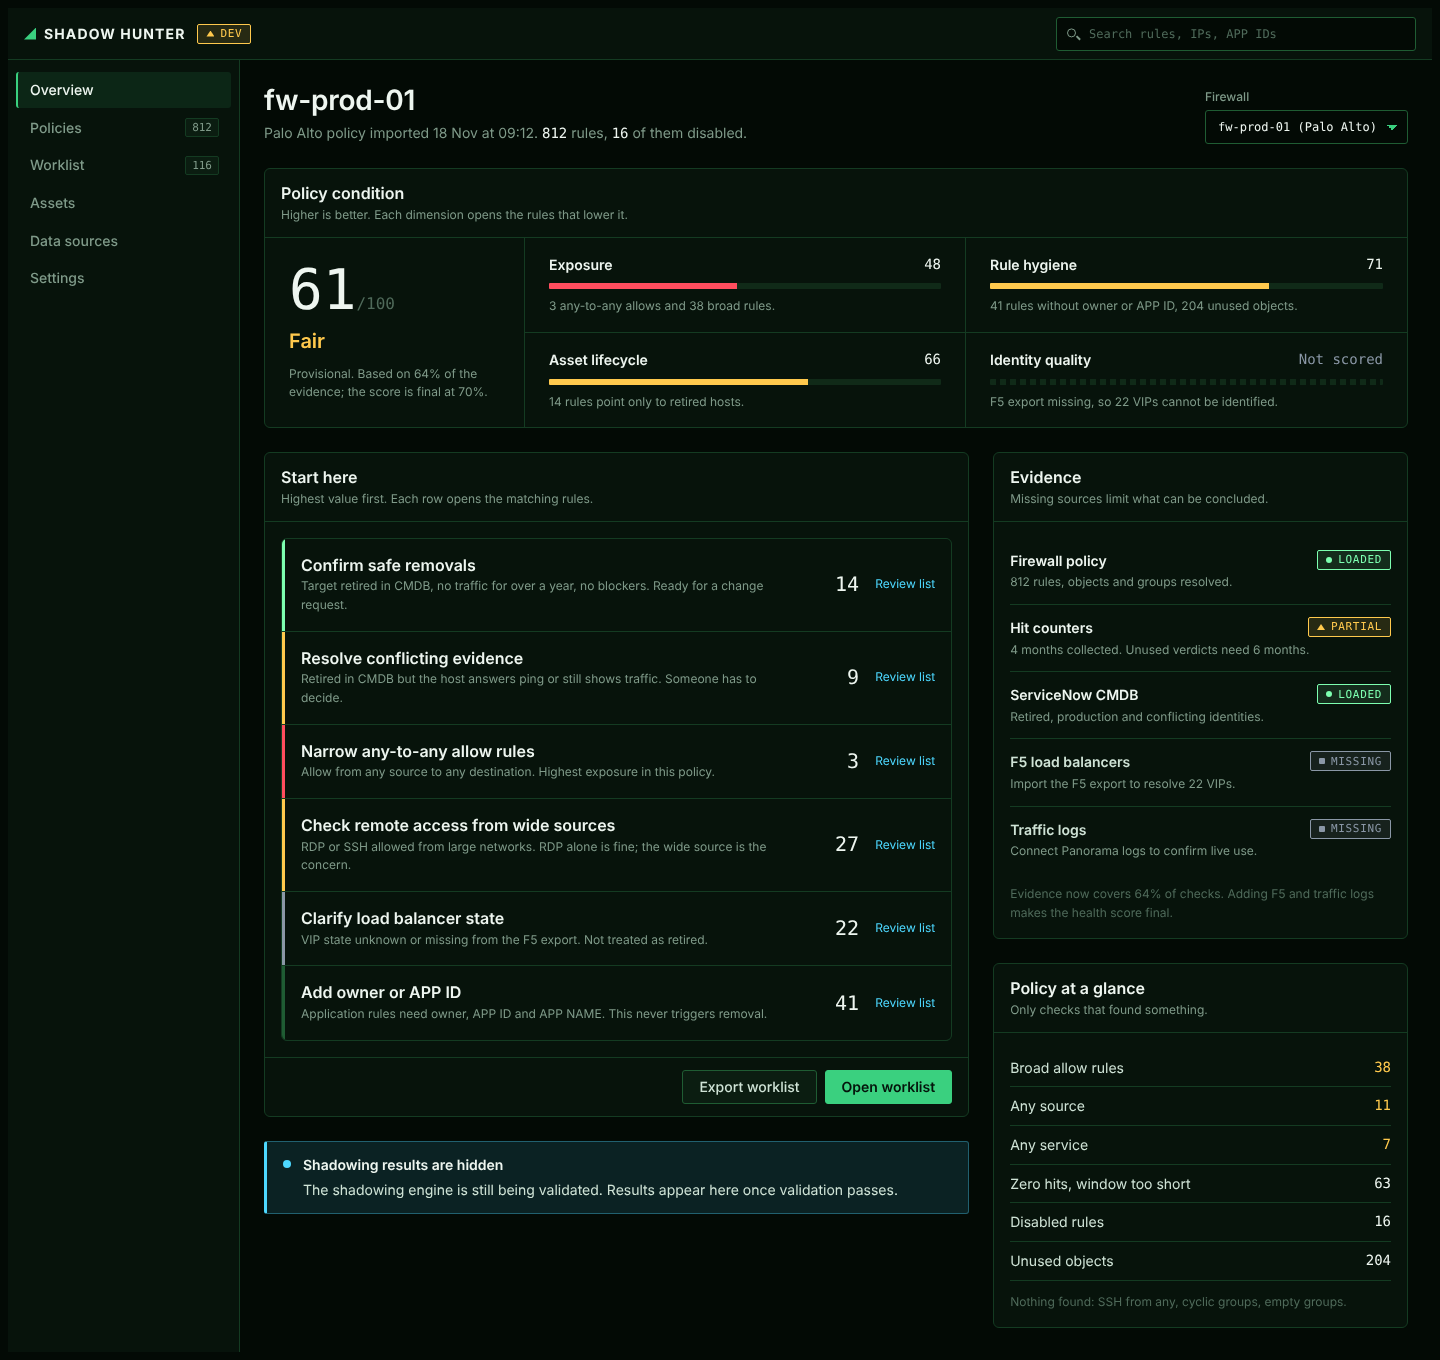
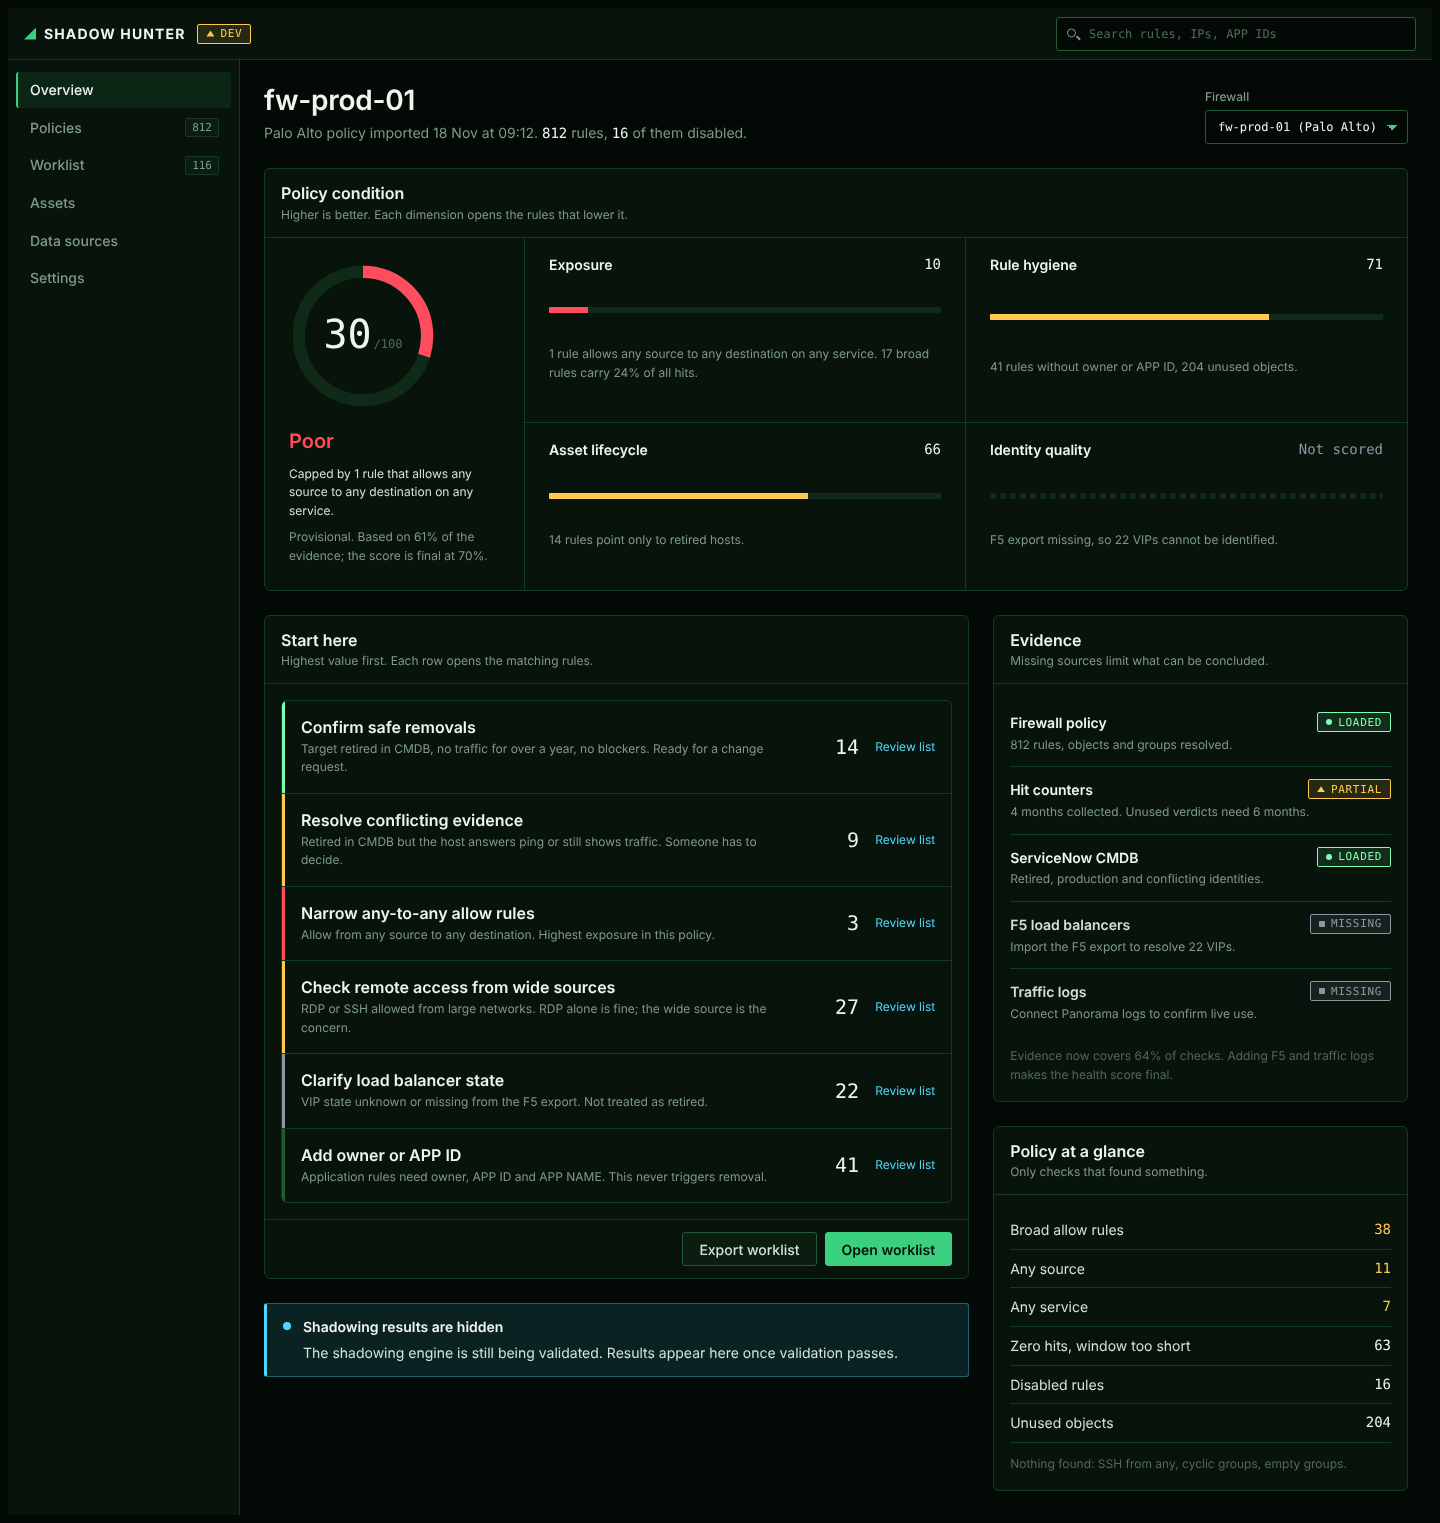
v1.5: health ring gauge and cap reason line
Claude-Session: https://claude.ai/code/session_016afCWNgeuWWhT9Zut3owpn

diff --git a/shadow-hunter-ui.css b/shadow-hunter-ui.css
@@ -1,5 +1,5 @@
 /* =====================================================================
-   SHADOW HUNTER UI  v1.4
+   SHADOW HUNTER UI  v1.5
    Professional dark green design system (no glow, no rain, no blinking). Framework-agnostic: plain CSS,
    works with HTML, React, Vue, Svelte, Electron, Tauri, Flask/Django
    templates. All classes use the prefix .sh-  All tokens use --sh-
@@ -376,3 +376,29 @@ a.sh-meter:hover { background: var(--sh-bg-2); }
 .is-unscored .sh-meter-bar { background: repeating-linear-gradient(90deg, var(--sh-bg-3) 0 6px, transparent 6px 10px); }
 .is-unscored .sh-meter-value, .sh-health-grade.is-unscored { color: var(--sh-unknown); }
 @media (max-width: 900px) { .sh-health, .sh-health-dims { grid-template-columns: minmax(0, 1fr); } .sh-health-overall { border-right: 0; border-bottom: 1px solid var(--sh-line); } .sh-meter:nth-child(odd) { border-right: 0; } .sh-meter:nth-last-child(2) { border-bottom: 1px solid var(--sh-line); } }
+
+/* ---------- 22. HEALTH RING (v1.5) ----------------------------------
+   <div class="sh-ring is-poor" style="--value:30">
+     <svg viewBox="0 0 120 120" aria-hidden="true">
+       <circle class="sh-ring-track" cx="60" cy="60" r="52" pathLength="100"/>
+       <circle class="sh-ring-fill"  cx="60" cy="60" r="52" pathLength="100"/>
+     </svg>
+     <div class="sh-ring-label"><span class="sh-ring-value">30</span><span class="sh-ring-max">/100</span></div>
+   </div>
+   Color by score band: is-good / is-fair / is-poor; no score: is-unscored. */
+.sh-ring { position: relative; width: 148px; height: 148px; flex: none; }
+.sh-ring svg { width: 100%; height: 100%; transform: rotate(-90deg); }
+.sh-ring circle { fill: none; stroke-width: 10; }
+.sh-ring-track { stroke: var(--sh-bg-3); }
+.sh-ring-fill { stroke: var(--sh-text-dim); stroke-linecap: butt; stroke-dasharray: var(--value, 0) 100; transition: stroke-dasharray .4s var(--sh-ease); }
+.sh-ring.is-good .sh-ring-fill { stroke: var(--sh-ok); }
+.sh-ring.is-fair .sh-ring-fill { stroke: var(--sh-warn); }
+.sh-ring.is-poor .sh-ring-fill { stroke: var(--sh-crit); }
+.sh-ring.is-unscored .sh-ring-fill { stroke: none; }
+.sh-ring.is-unscored .sh-ring-track { stroke-dasharray: 2 2; }
+.sh-ring-label { position: absolute; inset: 0; display: flex; align-items: baseline; justify-content: center; padding-top: 52px; gap: 2px; }
+.sh-ring-value { font-family: var(--sh-font-mono); font-variant-numeric: tabular-nums; font-size: 40px; line-height: 1; color: var(--sh-text-strong); }
+.sh-ring-max { font-family: var(--sh-font-mono); font-size: var(--sh-fs-sm); color: var(--sh-text-dim); }
+.sh-ring.is-unscored .sh-ring-value { font-family: var(--sh-font-sans); font-size: var(--sh-fs-md); font-weight: 600; color: var(--sh-unknown); }
+.sh-health-overall .sh-ring { margin-bottom: var(--sh-s2); }
+.sh-health-cap { margin: 0; font-size: var(--sh-fs-sm); color: var(--sh-text); }

diff --git a/mockups/dashboard.html b/mockups/dashboard.html
@@ -44,15 +44,22 @@
       </div></div>
       <div class="sh-health">
         <div class="sh-health-overall">
-          <div class="sh-health-score">61<small>/100</small></div>
-          <div class="sh-health-grade is-fair">Fair</div>
-          <p class="sh-health-note">Provisional. Based on 64% of the evidence; the score is final at 70%.</p>
+          <div class="sh-ring is-poor" style="--value:30">
+            <svg viewBox="0 0 120 120" aria-hidden="true">
+              <circle class="sh-ring-track" cx="60" cy="60" r="52" pathLength="100"/>
+              <circle class="sh-ring-fill" cx="60" cy="60" r="52" pathLength="100"/>
+            </svg>
+            <div class="sh-ring-label"><span class="sh-ring-value">30</span><span class="sh-ring-max">/100</span></div>
+          </div>
+          <div class="sh-health-grade is-poor">Poor</div>
+          <p class="sh-health-cap">Capped by 1 rule that allows any source to any destination on any service.</p>
+          <p class="sh-health-note">Provisional. Based on 61% of the evidence; the score is final at 70%.</p>
         </div>
         <div class="sh-health-dims">
-          <a class="sh-meter is-poor" href="#" style="--value:48%">
-            <span class="sh-meter-name">Exposure</span><span class="sh-meter-value">48</span>
+          <a class="sh-meter is-poor" href="#" style="--value:10%">
+            <span class="sh-meter-name">Exposure</span><span class="sh-meter-value">10</span>
             <span class="sh-meter-bar"><span></span></span>
-            <span class="sh-meter-why">3 any-to-any allows and 38 broad rules.</span></a>
+            <span class="sh-meter-why">1 rule allows any source to any destination on any service. 17 broad rules carry 24% of all hits.</span></a>
           <a class="sh-meter is-fair" href="#" style="--value:71%">
             <span class="sh-meter-name">Rule hygiene</span><span class="sh-meter-value">71</span>
             <span class="sh-meter-bar"><span></span></span>

diff --git a/README.md b/README.md
@@ -30,6 +30,7 @@ Fonts (IBM Plex Sans, JetBrains Mono) load from Google Fonts via `@import` in th
 If the environment blocks Google Fonts, the system fallbacks (Segoe UI, Consolas) are used.
 
 ## Changelog
+- **v1.5** – Health ring `.sh-ring` (SVG gauge, `--value` 0–100, is-good/fair/poor/unscored) and `.sh-health-cap` for the score cap reason.
 - **v1.4** – Policy health: `.sh-health` (overall score, grade, provisional note) and `.sh-meter` per dimension
   (`is-good` / `is-fair` / `is-poor` / `is-unscored`). Added to the overview mockup.
 - **v1.3** – Analyst components: `.sh-queue` (prioritized worklist), `.sh-ready` (evidence sources), `.sh-facts` (non-zero findings),
